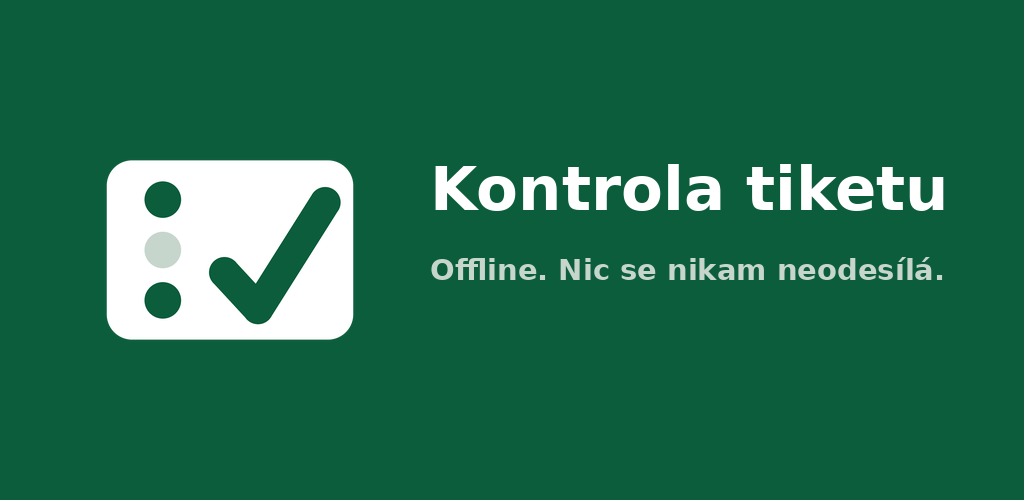
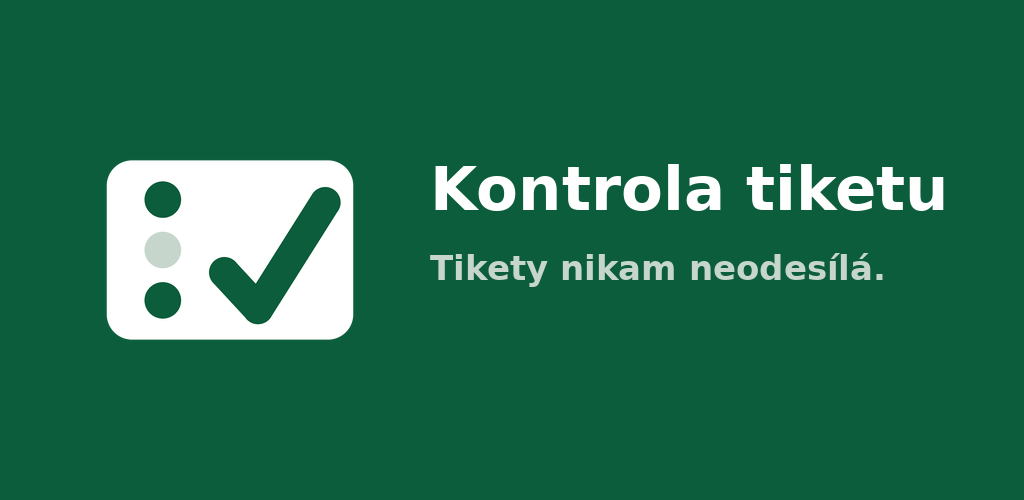
Grafika pro Play už netvrdí, že je aplikace offline
Od stahování výsledků aplikace na síť chodí, takže „Offline. Nic se nikam
neodesílá.“ nesedí. Zůstává to podstatné: o tiketech z telefonu neodejde
nic. Text byl v generátoru dvakrát, teď je v konstantě.

Changed region(s): [[0.4062, 0.51, 0.9375, 0.57]]

diff --git a/tools/ikony/generuj.py b/tools/ikony/generuj.py
@@ -147,6 +147,11 @@ def splashe() -> None:
 
 FONT = "/usr/share/fonts/truetype/dejavu/DejaVuSans-Bold.ttf"
 
+# Dřív tu stálo „Offline. Nic se nikam neodesílá.“ Od stahování výsledků aplikace offline
+# není; co platí dál, je že z telefonu neodchází nic o tiketech.
+NADPIS = "Kontrola tiketu"
+PODNADPIS = "Tikety nikam neodesílá."
+
 
 def _font_do_sirky(text: str, max_sirka: int, max_velikost: int):
     """Největší velikost písma, při které se text ještě vejde. None, když font chybí."""
@@ -176,14 +181,13 @@ def play() -> None:
     kresba = ImageDraw.Draw(feature)
 
     text_x, sirka_textu = 430, 1024 - 430 - 70
-    nadpis = _font_do_sirky("Kontrola tiketu", sirka_textu, 80)
-    podnadpis = _font_do_sirky("Offline. Nic se nikam neodesílá.", sirka_textu, 34)
+    nadpis = _font_do_sirky(NADPIS, sirka_textu, 80)
+    podnadpis = _font_do_sirky(PODNADPIS, sirka_textu, 34)
     if nadpis is None or podnadpis is None:
         print(f"  (font {FONT} nenalezen, feature grafika bude bez textu)")
     else:
-        kresba.text((text_x, 210), "Kontrola tiketu", font=nadpis, fill=TIKET, anchor="ls")
-        kresba.text((text_x, 280), "Offline. Nic se nikam neodesílá.", font=podnadpis,
-                    fill=NEVYPLNENE, anchor="ls")
+        kresba.text((text_x, 210), NADPIS, font=nadpis, fill=TIKET, anchor="ls")
+        kresba.text((text_x, 280), PODNADPIS, font=podnadpis, fill=NEVYPLNENE, anchor="ls")
     uloz(feature, zde / "play-feature-1024x500.png")
 
 
